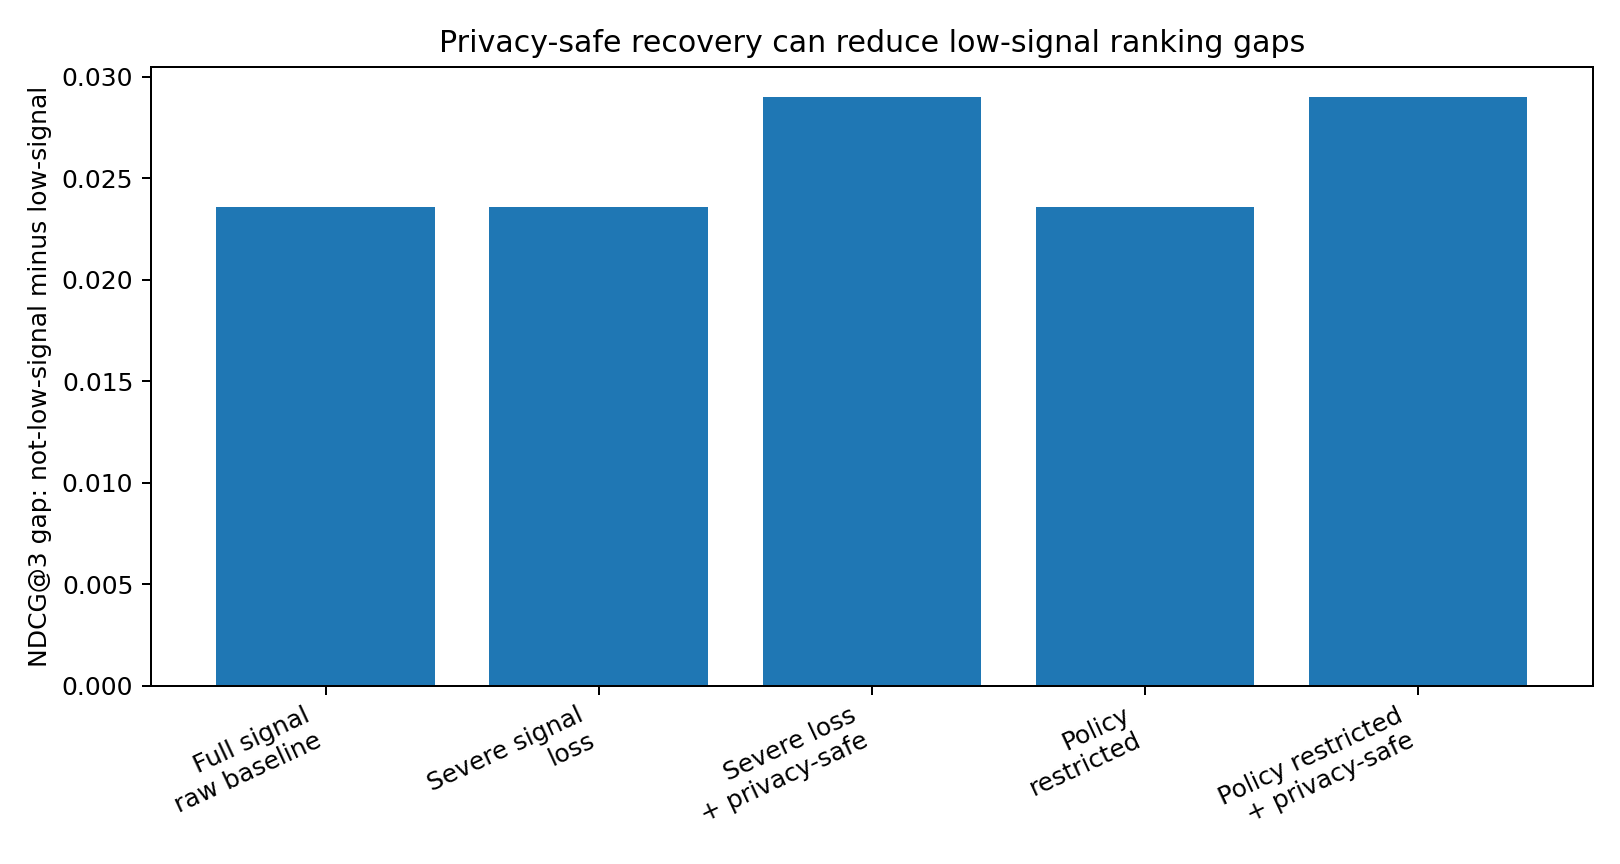
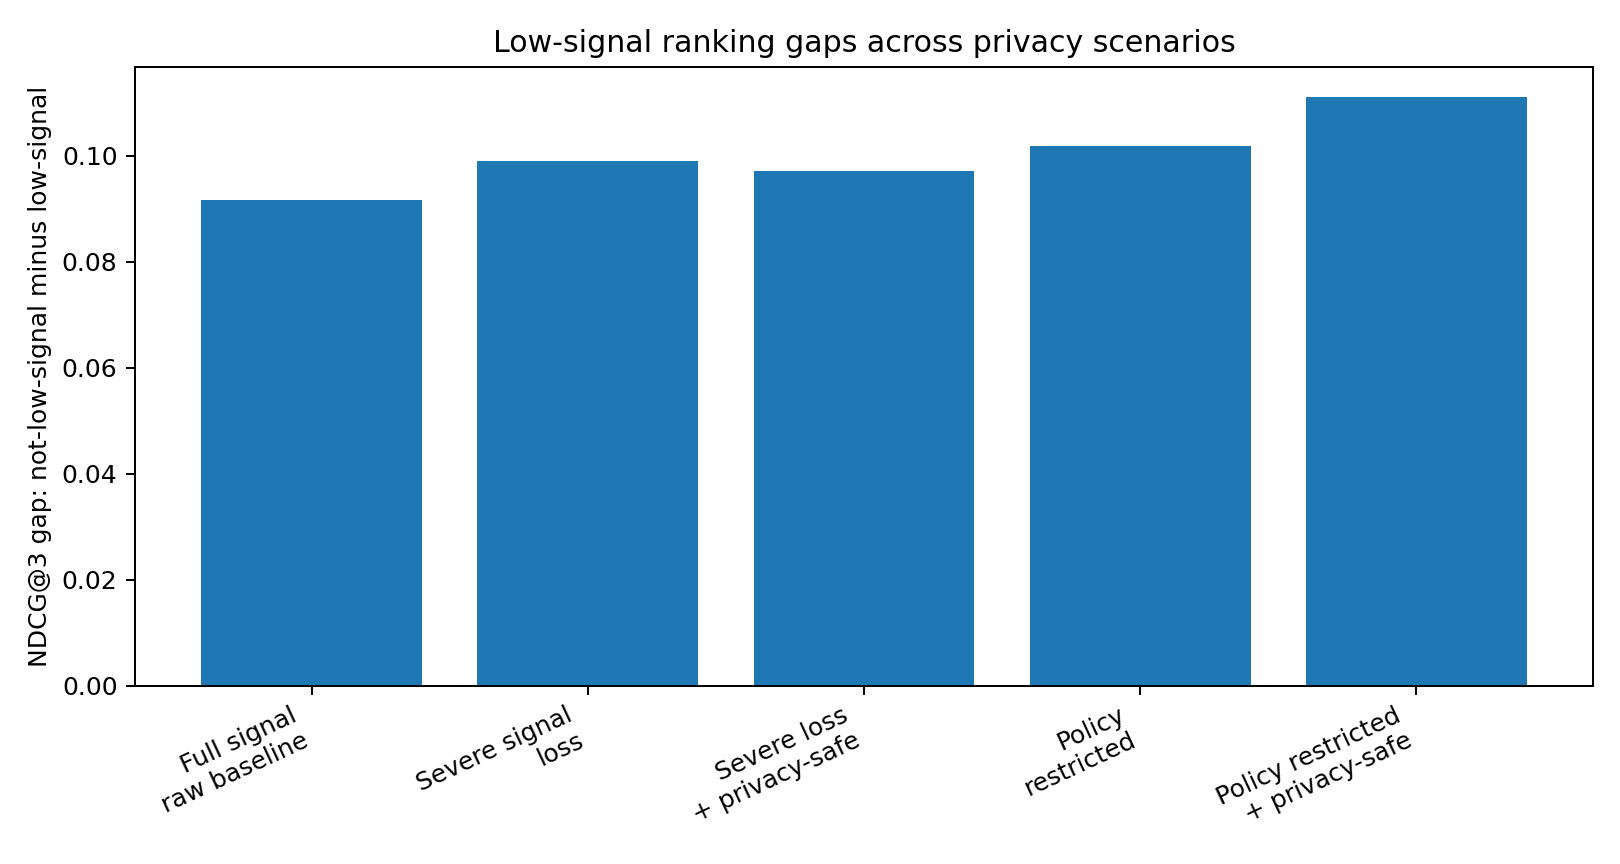
Model service-specific signal loss and privacy-safe recovery

diff --git a/fairprivacysignal/data_generator.py b/fairprivacysignal/data_generator.py
@@ -193,7 +193,12 @@ def _service_need_score(
     service_category: str,
     rng: np.random.Generator,
 ) -> np.ndarray:
-    """Synthetic latent relevance score by service category."""
+    """Synthetic latent relevance score by service category.
+
+    Behavioral engagement is intentionally important in this synthetic benchmark
+    so that signal-loss scenarios meaningfully affect ranking utility. Privacy-safe
+    aggregate features are then expected to recover part of the lost signal.
+    """
     income_low = (merged["income_band"] == "low").astype(float).to_numpy()
     senior = (merged["age_group"] == "senior").astype(float).to_numpy()
     youth = (merged["age_group"] == "youth").astype(float).to_numpy()
@@ -205,22 +210,56 @@ def _service_need_score(
     health_need = merged["health_need_score"].to_numpy()
     housing_pressure = merged["housing_pressure"].to_numpy()
     underserved = merged["underserved_score"].to_numpy()
+
+    # Individual-level behavioral signal. Signal-loss simulations remove or suppress
+    # this feature, creating the privacy-utility tradeoff studied by the project.
     engagement = np.log1p(merged["historical_engagement_count"].to_numpy()) / np.log(51)
 
     noise = rng.normal(0, 0.25, len(merged))
 
     if service_category == "food_assistance":
-        score = 1.4 * income_low + 1.2 * food_risk + 0.7 * underserved + 0.2 * language_need
+        score = (
+            1.0 * income_low
+            + 0.9 * food_risk
+            + 0.5 * underserved
+            + 0.8 * engagement
+            + 0.2 * language_need
+        )
     elif service_category == "preventive_health":
-        score = 1.1 * health_need + 0.6 * senior + 0.4 * disability + 0.2 * engagement
+        score = (
+            0.9 * health_need
+            + 0.5 * senior
+            + 0.3 * disability
+            + 1.2 * engagement
+        )
     elif service_category == "housing_support":
-        score = 1.3 * housing_pressure + 1.0 * income_low + 0.4 * underserved
+        score = (
+            1.0 * housing_pressure
+            + 0.8 * income_low
+            + 0.4 * underserved
+            + 0.7 * engagement
+        )
     elif service_category == "job_training":
-        score = 1.3 * employment_need + 0.8 * income_low + 0.3 * engagement
+        score = (
+            1.0 * employment_need
+            + 0.6 * income_low
+            + 1.4 * engagement
+        )
     elif service_category == "education_support":
-        score = 1.0 * youth + 0.7 * language_need + 0.5 * underserved
+        score = (
+            0.8 * youth
+            + 0.6 * language_need
+            + 0.4 * underserved
+            + 0.8 * engagement
+        )
     elif service_category == "transportation_support":
-        score = 0.8 * senior + 0.8 * disability + 0.7 * underserved + 0.4 * food_risk
+        score = (
+            0.7 * senior
+            + 0.7 * disability
+            + 0.5 * underserved
+            + 0.4 * food_risk
+            + 0.7 * engagement
+        )
     else:
         score = np.zeros(len(merged))
 
@@ -244,11 +283,26 @@ def generate_outreach_events(
 
         latent_score = _service_need_score(merged, service["service_category"], rng)
 
+        # Create a service-specific behavioral signal. Unlike household-level engagement,
+        # this can change the relative ranking of services within the same household.
+        service_affinity = sigmoid(latent_score - 0.6 + rng.normal(0, 0.6, len(merged)))
+        base_rate = np.where(merged["low_signal"].astype(bool).to_numpy(), 0.8, 3.8)
+        historical_service_engagement_count = rng.poisson(
+            lam=base_rate * (0.25 + 2.5 * service_affinity)
+        ).clip(0, 50)
+
+        service_engagement = np.log1p(historical_service_engagement_count) / np.log(51)
+
         # Low-signal households are intentionally harder to rank when raw behavioral
         # signals are removed. This creates the fairness/utility problem the project studies.
         low_signal_penalty = -0.35 * merged["low_signal"].astype(float).to_numpy()
 
-        relevance_probability = sigmoid(-1.2 + latent_score + low_signal_penalty)
+        relevance_probability = sigmoid(
+            -1.7
+            + 0.45 * latent_score
+            + 1.8 * service_engagement
+            + low_signal_penalty
+        )
         relevant = rng.binomial(1, relevance_probability).astype(int)
 
         # Outreach success is a noisier downstream proxy.
@@ -282,6 +336,7 @@ def generate_outreach_events(
             ]
         ].copy()
 
+        event["historical_service_engagement_count"] = historical_service_engagement_count
         event["latent_relevance_score"] = latent_score.round(4)
         event["relevance_probability"] = relevance_probability.round(4)
         event["relevant"] = relevant

diff --git a/fairprivacysignal/signal_loss.py b/fairprivacysignal/signal_loss.py
@@ -43,6 +43,18 @@ def apply_signal_loss(events: pd.DataFrame, scenario: str) -> pd.DataFrame:
 
     df["scenario"] = scenario
     df["behavioral_available"] = behavioral_available
+    service_signal_col = (
+        "historical_service_engagement_count"
+        if "historical_service_engagement_count" in df.columns
+        else "historical_engagement_count"
+    )
+
+    df["available_historical_service_engagement_count"] = np.where(
+        behavioral_available,
+        df[service_signal_col],
+        0,
+    )
+
     df["available_historical_engagement_count"] = np.where(
         behavioral_available,
         df["historical_engagement_count"],
@@ -73,8 +85,8 @@ def summarize_scenario(df: pd.DataFrame) -> dict:
         "scenario": df["scenario"].iloc[0],
         "num_events": len(df),
         "behavioral_available_share": df["behavioral_available"].mean(),
-        "avg_available_historical_engagement": df[
-            "available_historical_engagement_count"
+        "avg_available_historical_service_engagement": df[
+            "available_historical_service_engagement_count"
         ].mean(),
         "avg_privacy_exposure_score": df["privacy_exposure_score"].mean(),
         "relevance_rate_low_signal": low_relevance,

diff --git a/fairprivacysignal/privacy_transforms.py b/fairprivacysignal/privacy_transforms.py
@@ -33,7 +33,7 @@ def add_privacy_safe_features(
         df.groupby(cohort_cols, observed=False)
         .agg(
             cohort_size=("household_id", "nunique"),
-            cohort_avg_engagement=("historical_engagement_count", "mean"),
+            cohort_avg_engagement=("historical_service_engagement_count", "mean"),
             cohort_avg_underserved=("underserved_score", "mean"),
             cohort_avg_food_risk=("food_access_risk", "mean"),
             cohort_avg_health_need=("health_need_score", "mean"),
@@ -74,7 +74,7 @@ def add_privacy_safe_features(
     service_defaults = (
         df.groupby("service_category", observed=False)
         .agg(
-            default_engagement=("historical_engagement_count", "mean"),
+            default_engagement=("historical_service_engagement_count", "mean"),
             default_underserved=("underserved_score", "mean"),
             default_food_risk=("food_access_risk", "mean"),
             default_health_need=("health_need_score", "mean"),

diff --git a/fairprivacysignal/privacy_recovery.py b/fairprivacysignal/privacy_recovery.py
@@ -14,7 +14,7 @@ from fairprivacysignal.signal_loss import apply_signal_loss
 
 
 BASE_NUMERIC_FEATURES = [
-    "available_historical_engagement_count",
+    "available_historical_service_engagement_count",
     "employment_need",
     "median_income",
     "unemployment_rate",
@@ -26,11 +26,18 @@ BASE_NUMERIC_FEATURES = [
 ]
 
 PRIVACY_SAFE_NUMERIC_FEATURES = [
+    # Keep any individual-level behavioral signal that remains available under
+    # the applicable consent or policy scenario.
+    "available_historical_service_engagement_count",
+
+    # Add privacy-safe aggregate substitutes for suppressed or unavailable signals.
     "privacy_safe_engagement_signal",
     "privacy_safe_cohort_avg_underserved",
     "privacy_safe_cohort_avg_food_risk",
     "privacy_safe_cohort_avg_health_need",
     "privacy_safe_cohort_avg_housing_pressure",
+
+    # Contextual features that do not depend on raw behavioral history.
     "employment_need",
     "median_income",
     "unemployment_rate",

diff --git a/fairprivacysignal/visualize_results.py b/fairprivacysignal/visualize_results.py
@@ -41,7 +41,7 @@ def main() -> None:
     plt.figure(figsize=(9, 4.8))
     plt.bar(df["display_name"], df["ndcg_gap_not_low_minus_low"])
     plt.ylabel("NDCG@3 gap: not-low-signal minus low-signal")
-    plt.title("Privacy-safe recovery can reduce low-signal ranking gaps")
+    plt.title("Low-signal ranking gaps across privacy scenarios")
     plt.xticks(rotation=25, ha="right")
     plt.tight_layout()
     plt.savefig(assets_dir / "privacy_recovery_fairness_gap.png", dpi=180)

diff --git a/fairprivacysignal/ranking.py b/fairprivacysignal/ranking.py
@@ -14,7 +14,7 @@ from fairprivacysignal.signal_loss import SCENARIOS, apply_signal_loss
 
 
 NUMERIC_FEATURES = [
-    "available_historical_engagement_count",
+    "available_historical_service_engagement_count",
     "employment_need",
     "median_income",
     "unemployment_rate",
